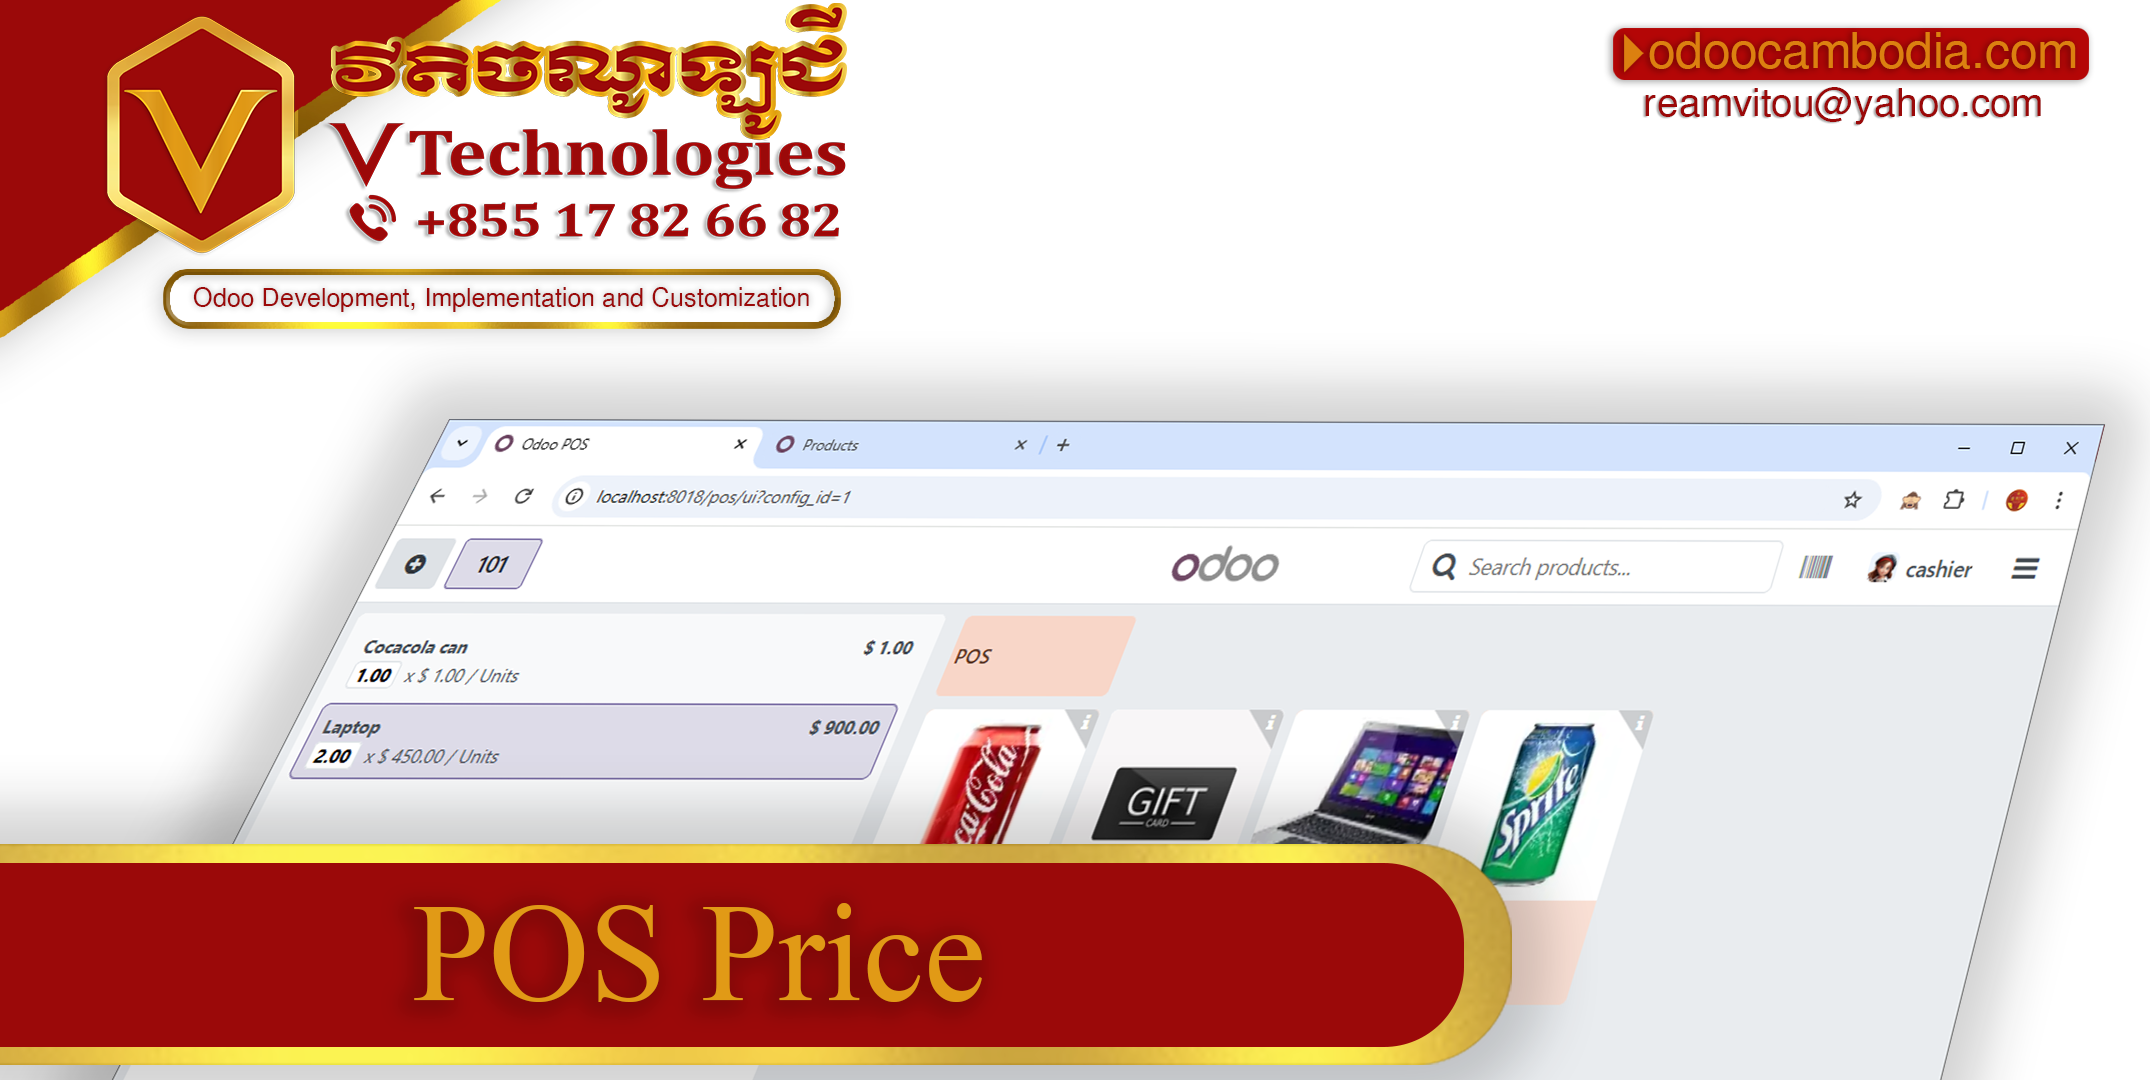
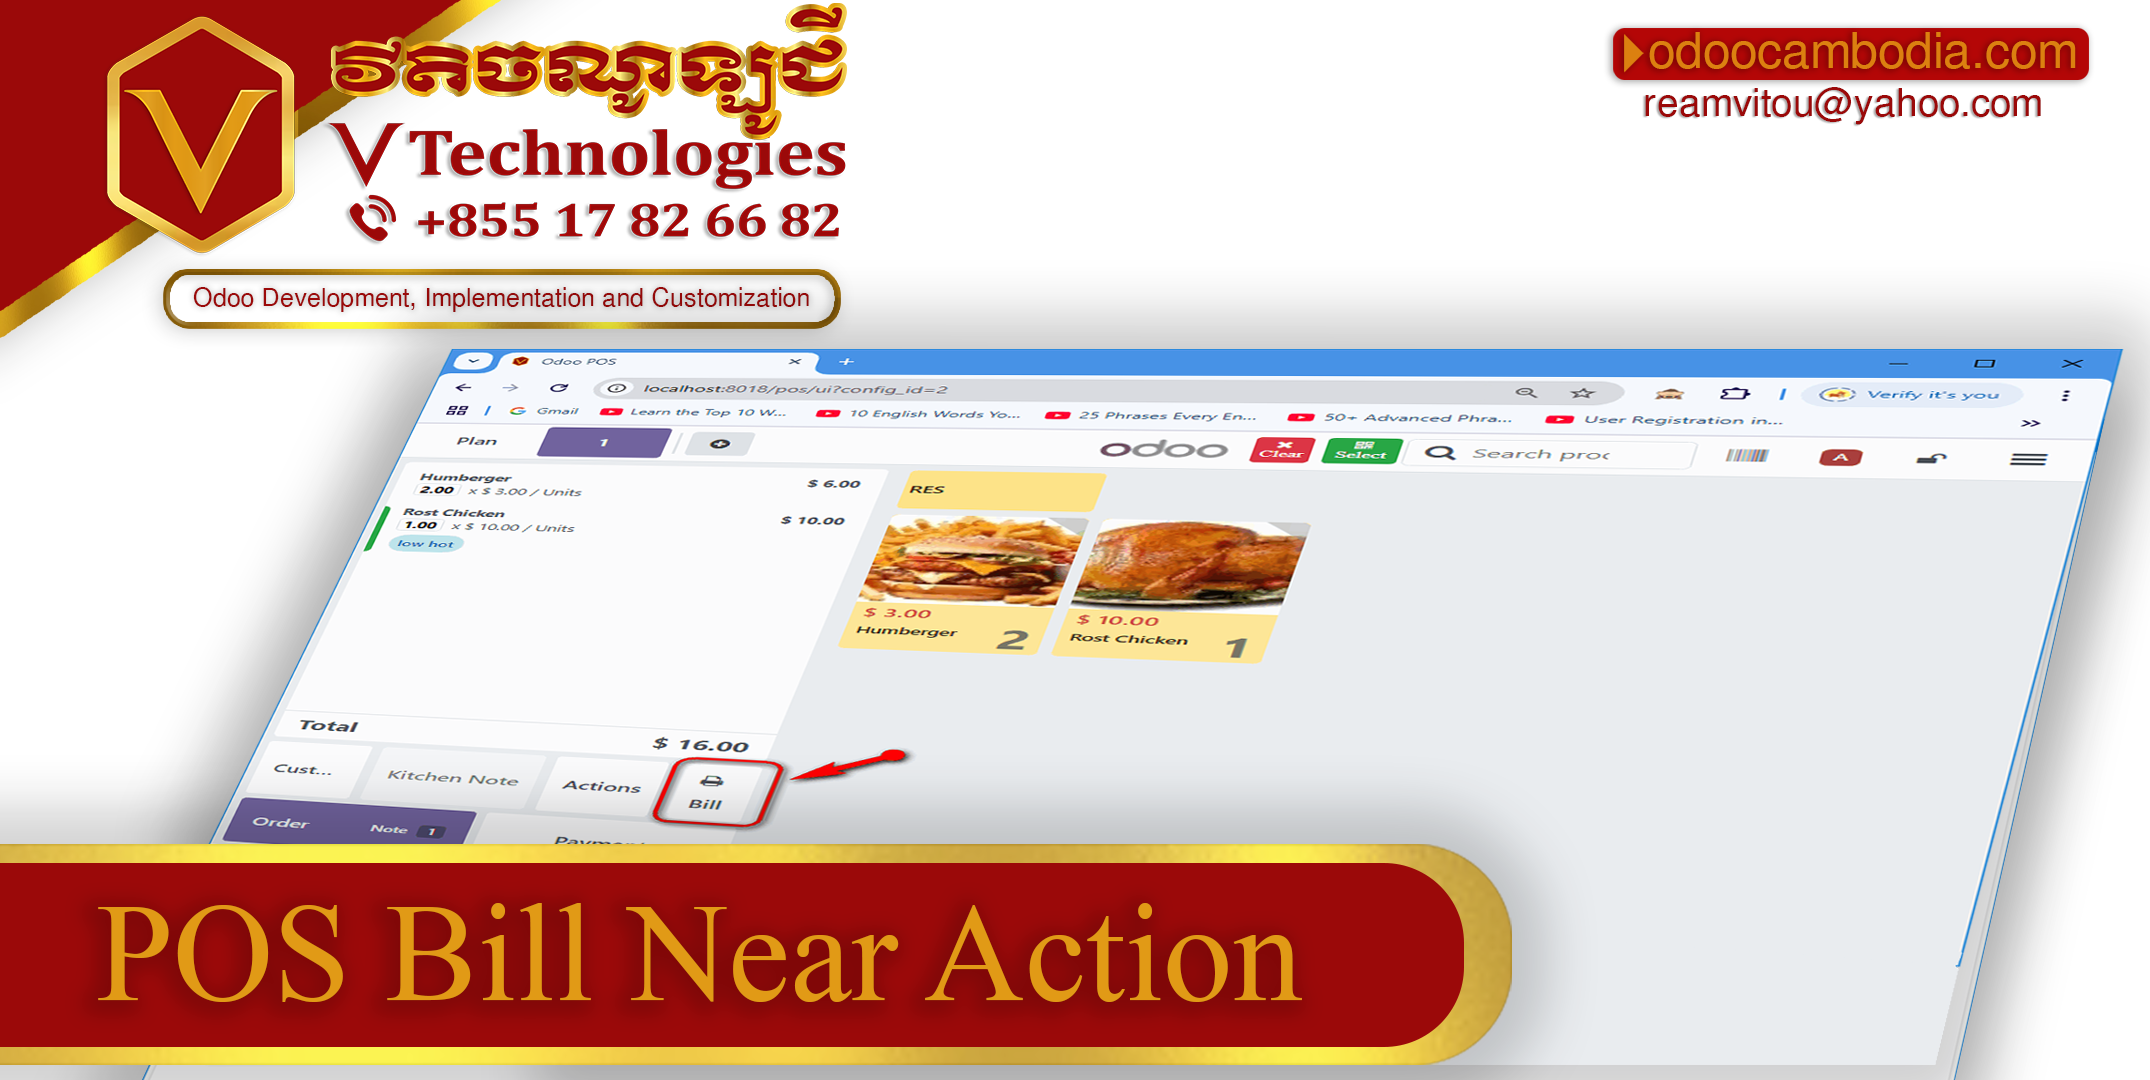
up

diff --git a/vitou_pos_print_bill/__manifest__.py b/vitou_pos_print_bill/__manifest__.py
@@ -1,13 +1,13 @@
 # -*- coding: utf-8 -*-
 {
-    'name': "POS Print Bill",
-    'author': 'REAM Vitou',
+    'name': "POS Print Bill Button",
+    'author': 'V Technologies',
     'website': 'https://odoocambodia.com',
     'maintainer': 'V Technologies',
     'version': '18.0.0.1',
     'category': 'Point of Sale',
     'sequence': 75,
-    'summary': 'POS Print Bill',
+    'summary': 'POS Print Bill Button Near Action Button',
     #'price':'10.0',
     #'currency':'USD',
     # 'description': "Display Sale Price in POS",
